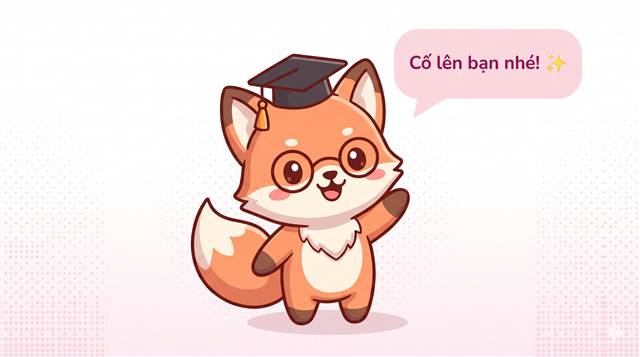
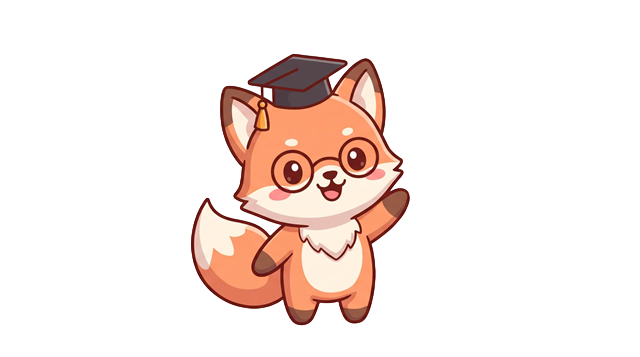
update sidebar and test

diff --git a/src/pages/DoTest.jsx b/src/pages/DoTest.jsx
@@ -1,4 +1,4 @@
-import React, { useState, useEffect } from 'react';
+import React, { useState, useEffect, useRef, useCallback } from 'react';
 import { useParams, useNavigate } from 'react-router-dom';
 import api from '../api';
 
@@ -53,18 +53,20 @@ export default function DoTest() {
         onConfirm: null
     });
     const [isSubmitting, setIsSubmitting] = useState(false);
+    const isSubmittingRef = useRef(false);
+    const submitHandlerRef = useRef(null);
 
-    const showAlert = (title, message, onOk = null) => {
+    const showAlert = useCallback((title, message, onOk = null) => {
         setModalConfig({ isOpen: true, title, message, type: 'alert', onConfirm: onOk });
-    };
+    }, []);
 
     const showConfirm = (title, message, onConfirm) => {
         setModalConfig({ isOpen: true, title, message, type: 'confirm', onConfirm });
     };
 
-    const closeModal = () => {
+    const closeModal = useCallback(() => {
         setModalConfig(prev => ({ ...prev, isOpen: false }));
-    };
+    }, []);
 
     // Kiểm tra số lần làm bài trước khi cho phép vào thi
     useEffect(() => {
@@ -152,24 +154,20 @@ export default function DoTest() {
 
     // Đồng hồ đếm ngược
     useEffect(() => {
-        if (!allowed) return;
+        if (!allowed || !testData || timeLeft <= 0) return;
 
         const timer = setInterval(() => {
             setTimeLeft(prev => {
-                if (prev <= 1) {
-                    clearInterval(timer);
-                    handleAutoSubmitOnTimeout();
-                    return 0;
-                }
-                return prev - 1;
+                return Math.max(0, prev - 1);
             });
         }, 1000);
 
         return () => clearInterval(timer);
-    }, [allowed]);
+    }, [allowed, testData, timeLeft]);
 
-    const handleConfirmSubmit = async () => {
-        if (isSubmitting) return;
+    const handleConfirmSubmit = useCallback(async () => {
+        if (isSubmittingRef.current) return;
+        isSubmittingRef.current = true;
         setIsSubmitting(true);
         closeModal();
         try {
@@ -190,16 +188,21 @@ export default function DoTest() {
             setQuizResult(response.data);
         } catch (error) {
             console.error("Lỗi khi nộp bài:", error);
-            showAlert("Lỗi", "Không thể nộp bài lên hệ thống. Vui lòng thử lại!");
+            showAlert("Lỗi", "Không thể nộp bài lên hệ thống. Vui lòng thử lại!", () => submitHandlerRef.current?.());
         } finally {
+            isSubmittingRef.current = false;
             setIsSubmitting(false);
         }
-    };
+    }, [closeModal, id, selectedAnswers, showAlert, startTime, studentId]);
 
-    const handleAutoSubmitOnTimeout = () => {
-        showAlert("⏰ Đã hết thời gian!", "Thời gian làm bài đã kết thúc. Hệ thống đang tự động nộp bài của bạn...");
-        handleConfirmSubmit();
-    };
+    useEffect(() => {
+        submitHandlerRef.current = handleConfirmSubmit;
+    }, [handleConfirmSubmit]);
+
+    useEffect(() => {
+        if (!allowed || !testData || timeLeft > 0 || quizResult) return;
+        submitHandlerRef.current();
+    }, [allowed, testData, timeLeft, quizResult]);
 
     const formatTime = (seconds) => {
         const h = Math.floor(seconds / 3600);
@@ -333,25 +336,48 @@ export default function DoTest() {
                 </div>
             </div>
 
-            {/* Bảng danh sách câu hỏi dạng bo tròn (Palette Drawer / Popup) */}
+            {/* Question navigation dialog */}
             {showPalette && (
-                <div className="bg-white border-b border-pink-100 p-4 shadow-md animate-fadeIn">
-                    <div className="max-w-4xl mx-auto">
-                        <div className="flex justify-between items-center mb-3">
-                            <div className="flex items-center gap-4 text-xs font-bold text-slate-600">
-                                <span className="flex items-center gap-1.5"><span className="w-3 h-3 rounded-full bg-emerald-500 inline-block"></span> Đã làm</span>
-                                <span className="flex items-center gap-1.5"><span className="w-3 h-3 rounded-full bg-amber-400 inline-block"></span> Đã đánh dấu (Review)</span>
-                                <span className="flex items-center gap-1.5"><span className="w-3 h-3 rounded-full bg-slate-200 inline-block"></span> Chưa làm</span>
+                <div
+                    className="fixed inset-0 z-40 flex items-center justify-center bg-slate-900/40 p-4 backdrop-blur-sm"
+                    onClick={() => setShowPalette(false)}
+                >
+                    <section
+                        role="dialog"
+                        aria-modal="true"
+                        aria-labelledby="question-palette-title"
+                        className="w-full max-w-2xl rounded-3xl border border-pink-100 bg-white p-5 shadow-2xl sm:p-7"
+                        onClick={event => event.stopPropagation()}
+                    >
+                        <div className="mb-5 flex items-center justify-between">
+                            <div>
+                                <h2 id="question-palette-title" className="text-lg font-black text-pink-900">
+                                    Danh sách câu hỏi
+                                </h2>
+                                <p className="mt-1 text-xs text-slate-500">
+                                    Đã trả lời {Object.keys(selectedAnswers).length}/{questions.length} câu
+                                </p>
                             </div>
-                            <button onClick={() => setShowPalette(false)} className="text-xs text-slate-400 hover:text-slate-600 font-bold">✕ Đóng</button>
+                            <button
+                                type="button"
+                                onClick={() => setShowPalette(false)}
+                                aria-label="Đóng danh sách câu hỏi"
+                                className="rounded-full px-3 py-2 text-sm font-bold text-slate-400 transition hover:bg-pink-50 hover:text-pink-600"
+                            >
+                                ✕
+                            </button>
                         </div>
-                        <div className="flex flex-wrap gap-2 max-h-48 overflow-y-auto p-1">
+                        <div className="mb-5 flex flex-wrap gap-x-5 gap-y-2 text-xs font-bold text-slate-600">
+                            <span className="flex items-center gap-2"><span className="h-3 w-3 rounded-full bg-emerald-500"></span>Đã làm</span>
+                            <span className="flex items-center gap-2"><span className="h-3 w-3 rounded-full bg-amber-400"></span>Đánh dấu xem lại</span>
+                            <span className="flex items-center gap-2"><span className="h-3 w-3 rounded-full bg-slate-200"></span>Chưa làm</span>
+                        </div>
+                        <div className="grid max-h-[50vh] grid-cols-5 gap-3 overflow-y-auto p-1 sm:grid-cols-7 md:grid-cols-9">
                             {questions.map((q, idx) => {
                                 const isAnswered = selectedAnswers[q.id] !== undefined;
                                 const isMarked = markedQuestions[q.id];
                                 const isCurrent = currentIndex === idx;
 
-                                // Xác định màu sắc bo tròn
                                 let btnBg = "bg-slate-100 text-slate-600 border-slate-200";
                                 if (isAnswered) {
                                     btnBg = "bg-emerald-500 text-white border-emerald-500 font-bold shadow-sm";
@@ -363,19 +389,21 @@ export default function DoTest() {
                                 return (
                                     <button
                                         key={q.id}
+                                        type="button"
                                         onClick={() => {
                                             setCurrentIndex(idx);
                                             setShowPalette(false);
                                         }}
-                                        className={`w-9 h-9 rounded-full border flex items-center justify-center text-xs font-bold transition cursor-pointer ${btnBg} ${isCurrent ? 'ring-2 ring-pink-500 ring-offset-2 scale-105' : 'hover:opacity-80'}`}
-                                        title={`Câu ${idx + 1}`}
+                                        aria-label={`Câu ${idx + 1}${isCurrent ? ', câu hiện tại' : ''}${isAnswered ? ', đã làm' : ', chưa làm'}${isMarked ? ', đã đánh dấu xem lại' : ''}`}
+                                        aria-current={isCurrent ? 'step' : undefined}
+                                        className={`aspect-square w-full rounded-xl border text-sm font-bold transition ${btnBg} ${isCurrent ? 'ring-2 ring-pink-500 ring-offset-2' : 'hover:opacity-80'}`}
                                     >
                                         {idx + 1}
                                     </button>
                                 );
                             })}
                         </div>
-                    </div>
+                    </section>
                 </div>
             )}
 

diff --git a/src/components/StudentSidebar.jsx b/src/components/StudentSidebar.jsx
@@ -1,6 +1,7 @@
 import React from 'react';
 import { useLocation, useNavigate } from 'react-router-dom';
 import LogoutButton from './LogoutButton';
+import foxMascot from '../assets/fox-mascot-optimized.png';
 
 const navigationItems = [
     { path: '/home', label: 'Trang chủ' },
@@ -15,7 +16,7 @@ export default function StudentSidebar({ footer, onVocabularyClick }) {
     const { pathname } = useLocation();
 
     return (
-        <aside className="w-64 bg-white border-r border-pink-100 p-6 flex flex-col justify-between hidden md:flex shadow-sm relative overflow-visible">
+        <aside className="sticky top-0 h-screen min-h-screen w-64 shrink-0 bg-white border-r border-pink-100 p-6 flex flex-col justify-between hidden md:flex shadow-sm relative overflow-visible">
             <div>
                 <div className="text-xl font-black text-pink-600 tracking-wider mb-8">LYRA SAT</div>
                 <nav aria-label="Điều hướng chính" className="space-y-2">
@@ -46,6 +47,16 @@ export default function StudentSidebar({ footer, onVocabularyClick }) {
 
             <div>
                 {footer}
+                <div className="my-4 flex flex-col items-center">
+                    <div className="animate-bounce rounded-2xl border border-pink-200 bg-pink-100 px-4 py-2 text-xs font-bold text-pink-900 shadow-sm mb-2 whitespace-nowrap">
+                        Cố lên bạn nhé! ✨
+                    </div>
+                    <img
+                        src={foxMascot}
+                        alt="Linh vật Lyra SAT"
+                        className="h-44 w-44 object-contain drop-shadow-md"
+                    />
+                </div>
                 <LogoutButton className="w-full py-2.5 bg-red-50 hover:bg-red-100 text-red-500 text-xs font-bold rounded-2xl transition cursor-pointer" />
             </div>
         </aside>

diff --git a/src/pages/Home.jsx b/src/pages/Home.jsx
@@ -5,7 +5,6 @@ import StudentSidebar from '../components/StudentSidebar';
 // Import các ảnh banner và mascot từ thư mục assets của bạn
 import banner1 from '../assets/banner1-optimized.jpg';
 import banner2 from '../assets/banner2-optimized.jpg';
-import foxMascot from '../assets/fox-mascot-optimized.png';
 
 export default function Home() {
     const [user, setUser] = useState(null);
@@ -71,23 +70,7 @@ export default function Home() {
 
     return (
         <div className="min-h-screen bg-[#FFF5F7] text-slate-800 flex font-sans">
-            <StudentSidebar
-                footer={(
-                    <div className="flex flex-col items-center my-2 relative">
-                        <div className="bg-pink-100 border border-pink-200 px-4 py-2 rounded-2xl text-pink-900 text-xs font-bold shadow-sm mb-2 relative animate-bounce whitespace-nowrap">
-                            Cố lên bạn nhé! ✨
-                        </div>
-                        <img
-                            src={foxMascot}
-                            alt="Fox Mascot"
-                            className="w-40 h-40 object-contain drop-shadow-md"
-                            onError={(e) => {
-                                e.target.style.display = 'none';
-                            }}
-                        />
-                    </div>
-                )}
-            />
+            <StudentSidebar />
 
             {/* Nội dung chính bên phải */}
             <div className="flex-1 p-8 overflow-y-auto">

diff --git a/src/pages/ScoreHistory.jsx b/src/pages/ScoreHistory.jsx
@@ -71,12 +71,7 @@ export default function ScoreHistory() {
 
     return (
         <div className="min-h-screen bg-[#FFF5F7] text-slate-800 flex font-sans relative">
-            <StudentSidebar
-                footer={(
-                    <div className="bg-pink-50/60 p-4 rounded-3xl border border-pink-100 text-center">
-                    </div>
-                )}
-            />
+            <StudentSidebar />
 
             {/* Content Chính */}
             <div className="flex-1 p-8 overflow-y-auto">
